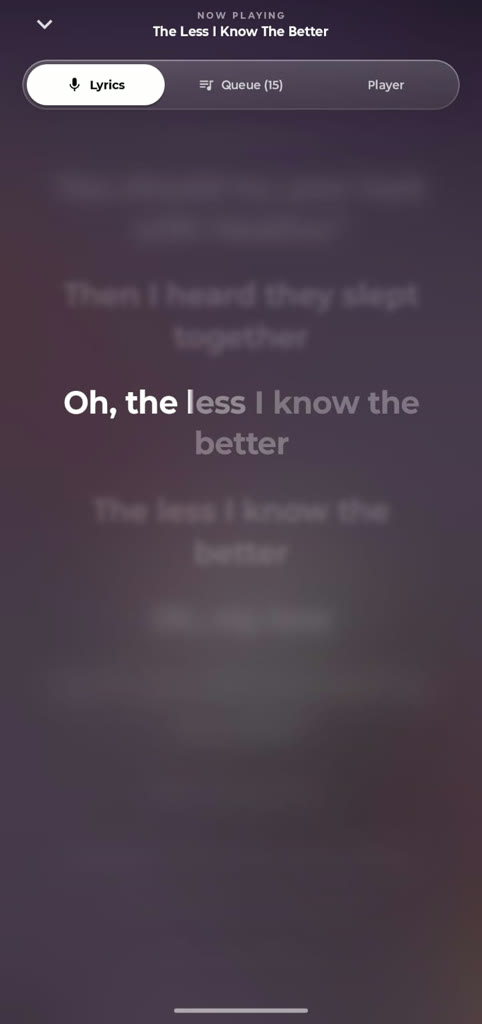
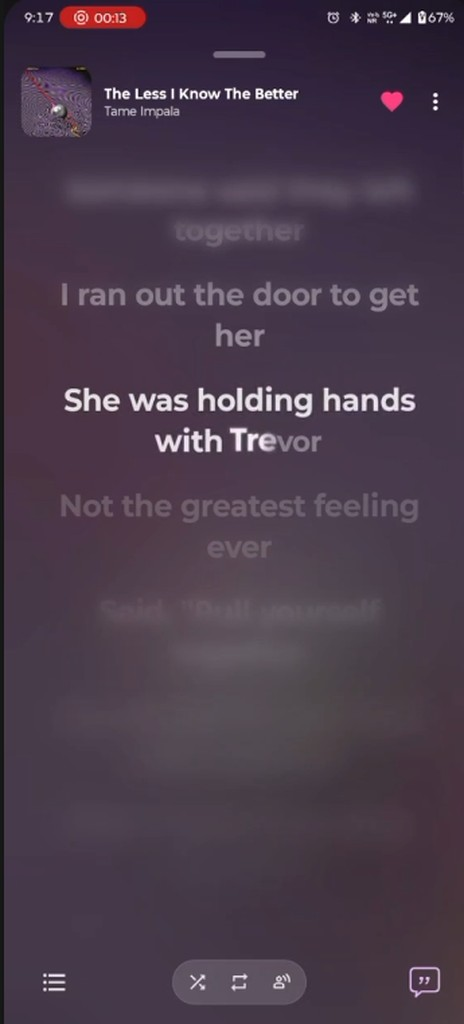
Update README lyrics screenshot

diff --git a/README.md b/README.md
@@ -44,8 +44,8 @@ The APK (~27 MB) supports Android 7.0+ devices with `arm64-v8a`, `armeabi-v7a`, 
         <sub><b>Now Playing</b></sub>
       </td>
       <td align="center" width="25%">
-        <img src="docs/screenshots/lyrics.jpg" alt="Synced Lyrics" width="100%" /><br />
-        <sub><b>Synced Karaoke Lyrics</b></sub>
+        <img src="docs/screenshots/lyrics.jpg" alt="Karaoke lyrics with word-by-word sync" width="100%" /><br />
+        <sub><b>Karaoke Lyrics · Word-by-Word Sync</b></sub>
       </td>
       <td align="center" width="25%">
         <img src="docs/screenshots/artist.jpg" alt="Artist Profile" width="100%" /><br />
